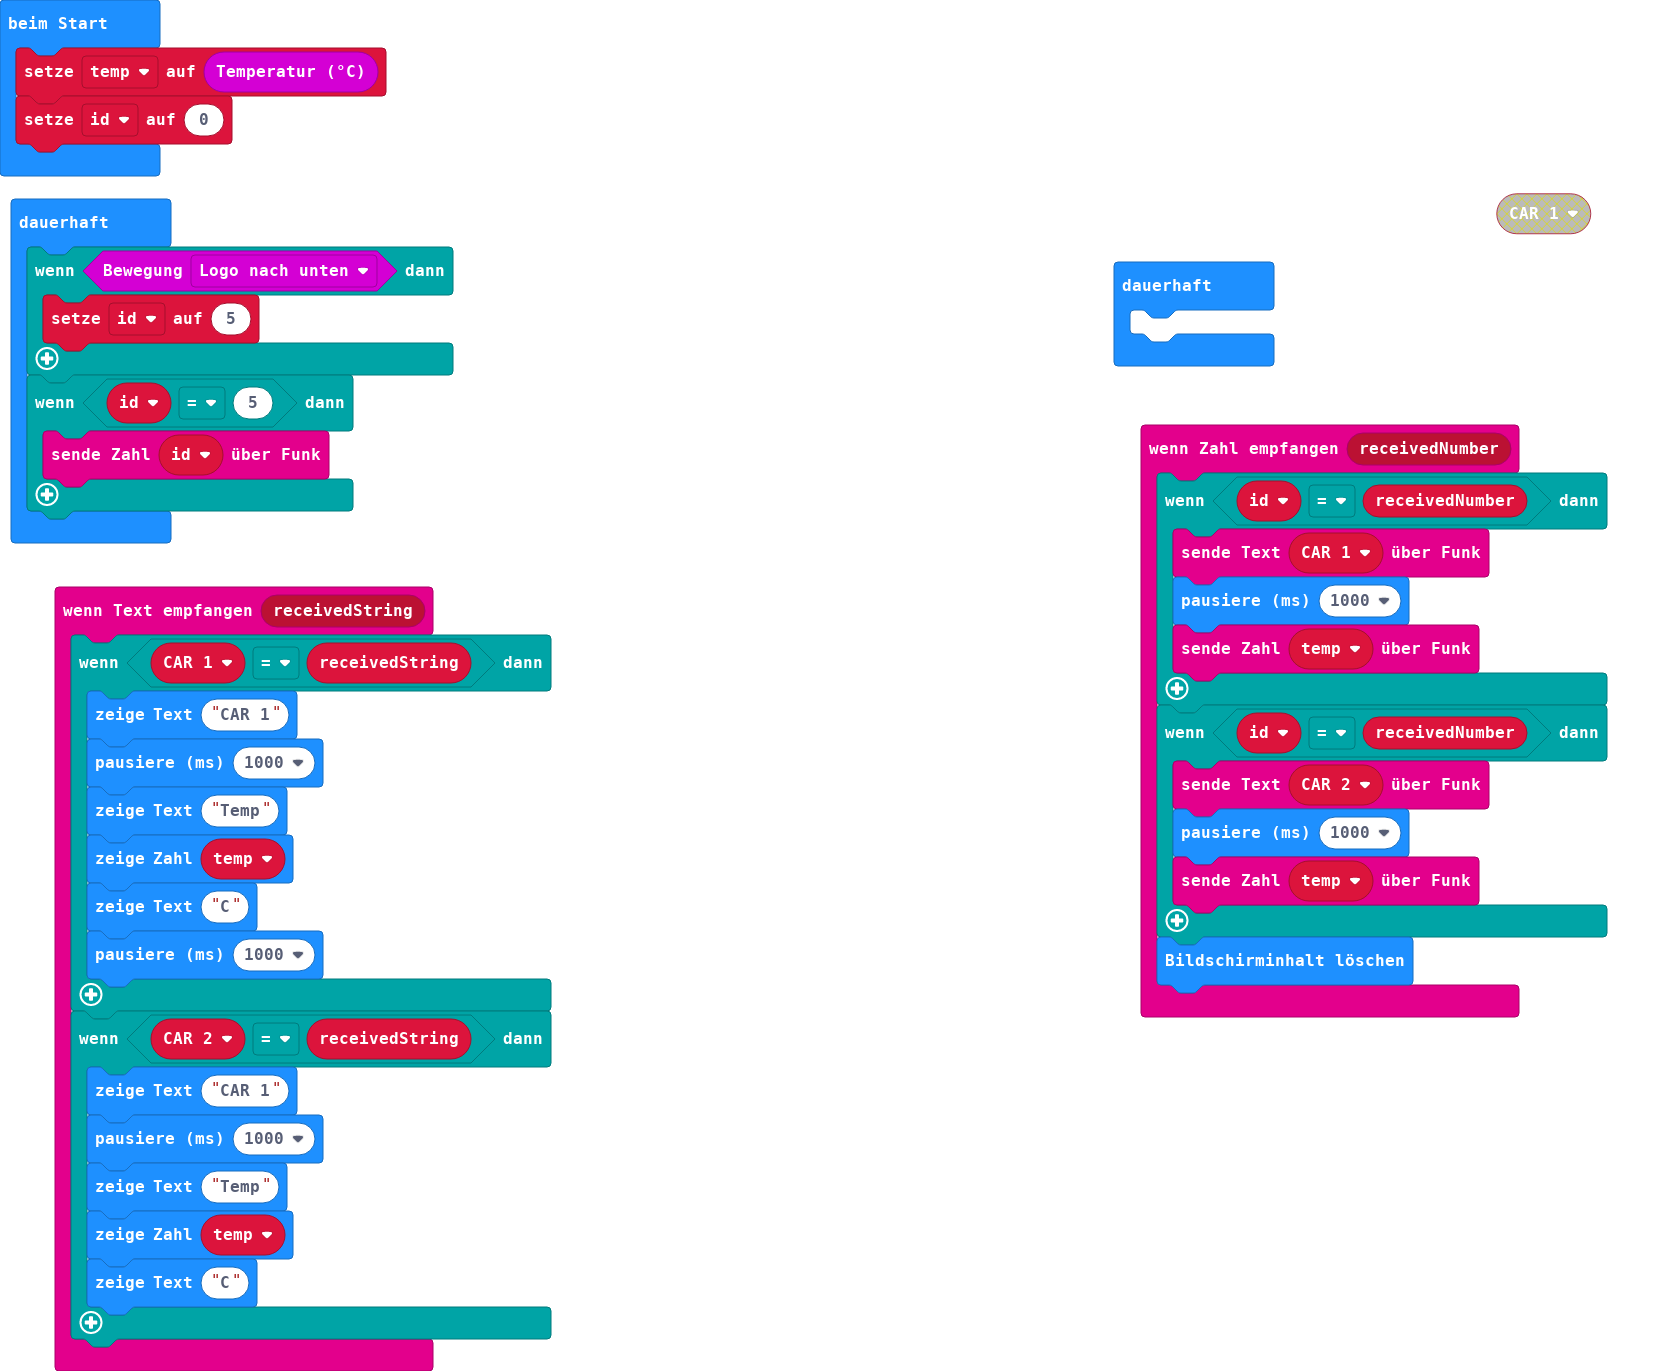
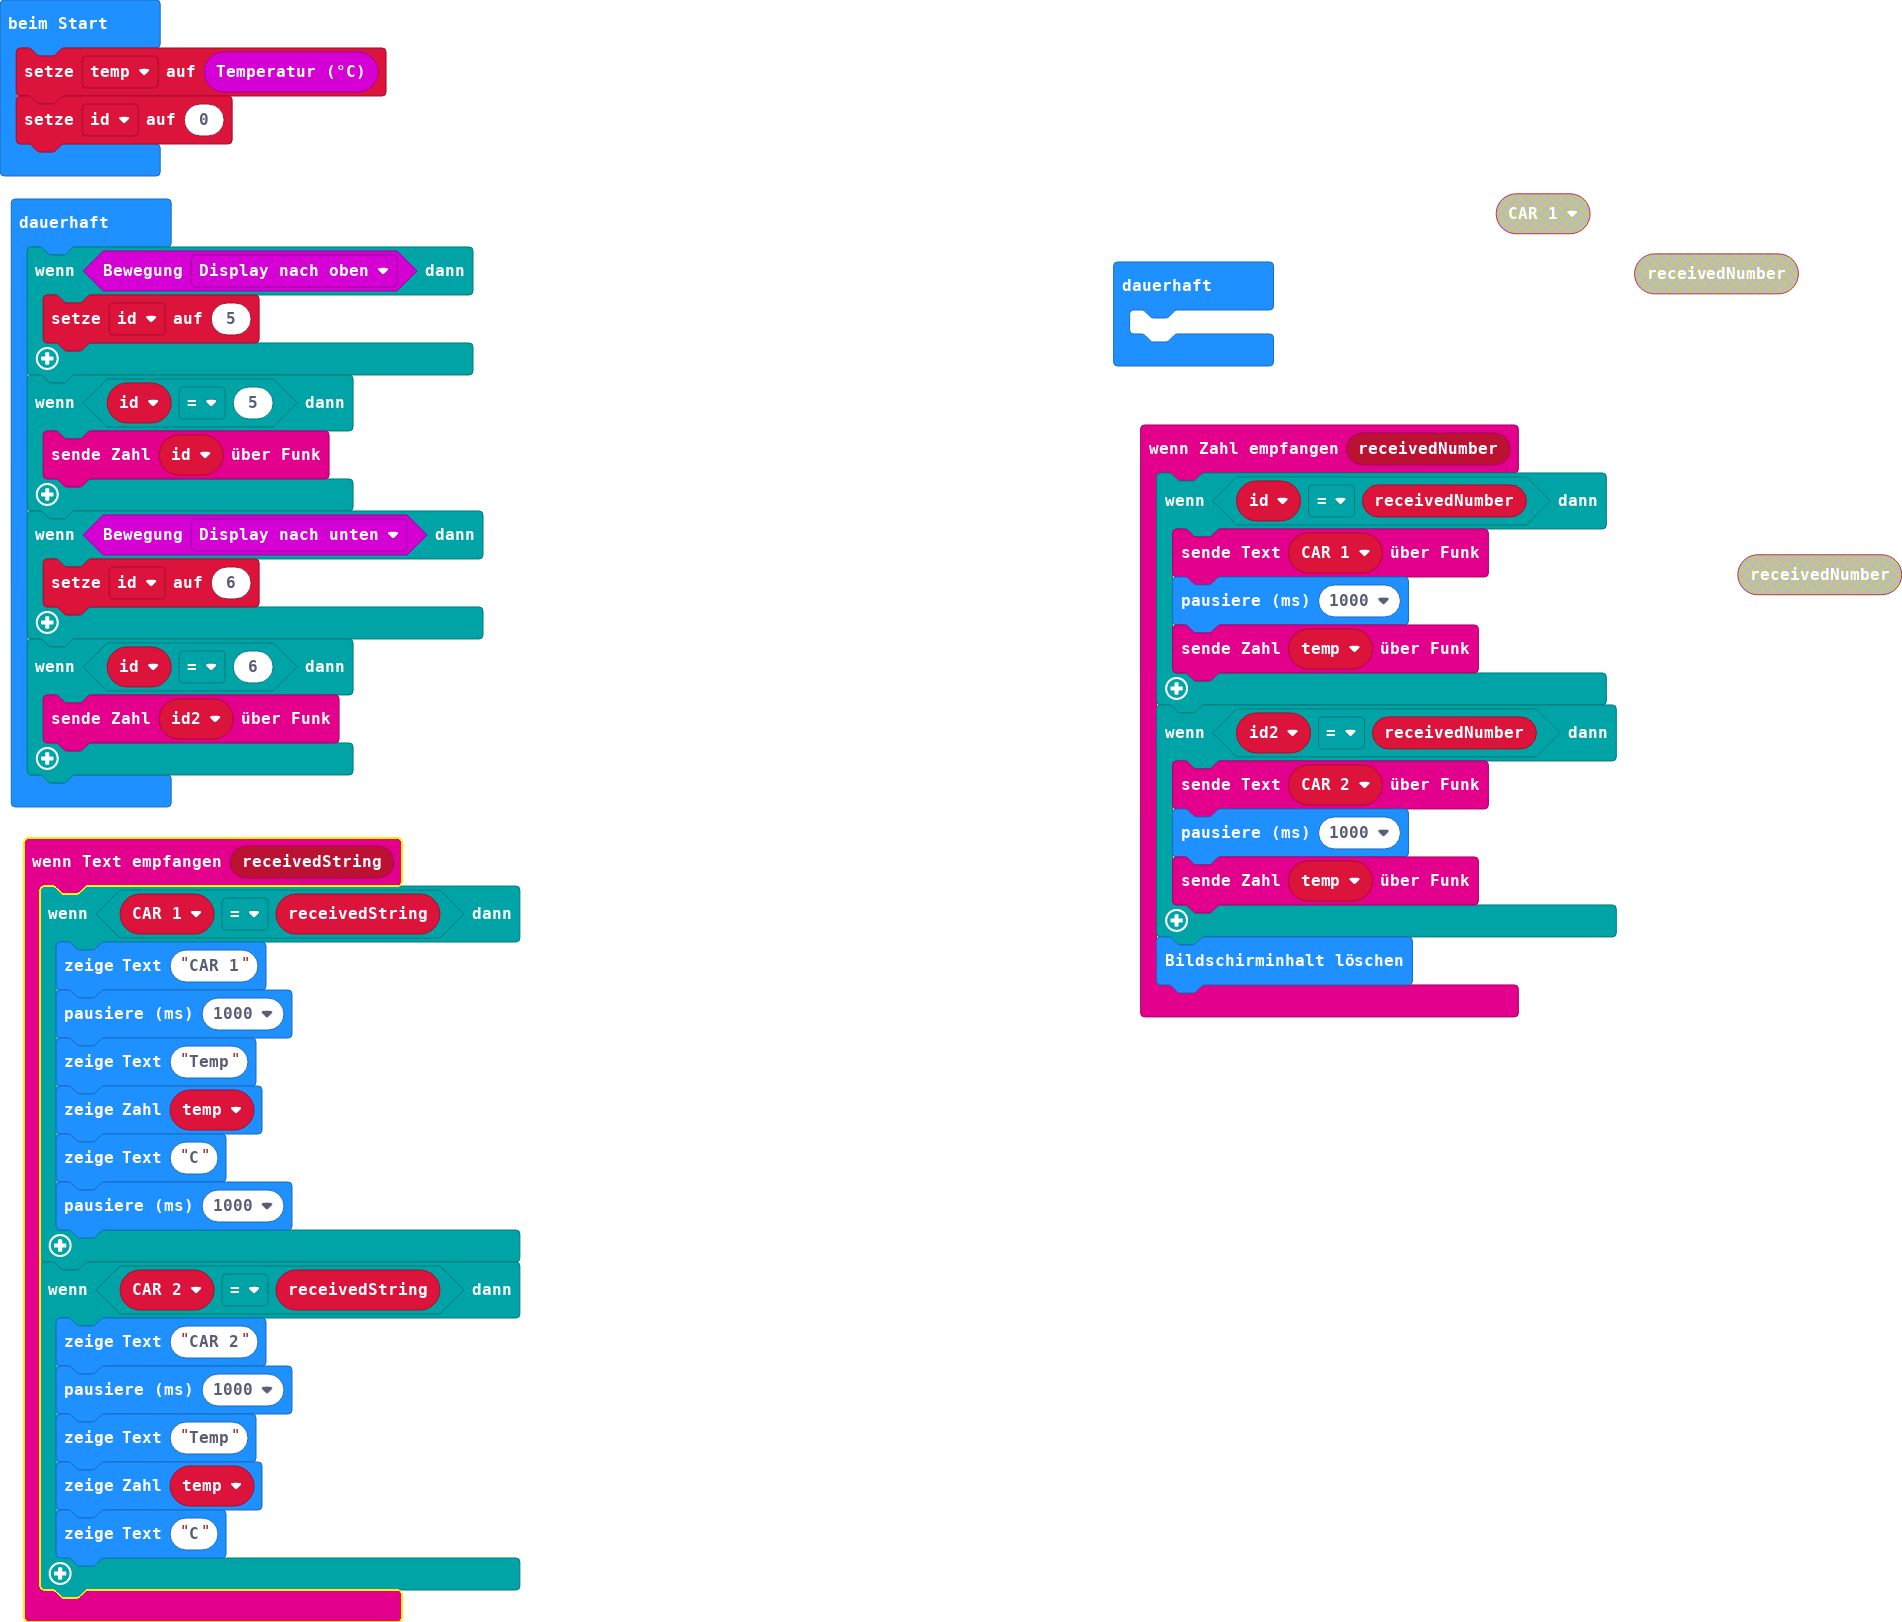
Aktualisiere main.blocks, main.ts

diff --git a/main.ts b/main.ts
@@ -4,7 +4,7 @@ radio.onReceivedNumber(function (receivedNumber) {
         basic.pause(1000)
         radio.sendNumber(temp)
     }
-    if (id == receivedNumber) {
+    if (id2 == receivedNumber) {
         radio.sendString(CAR_2)
         basic.pause(1000)
         radio.sendNumber(temp)
@@ -21,7 +21,7 @@ radio.onReceivedString(function (receivedString) {
         basic.pause(1000)
     }
     if (CAR_2 == receivedString) {
-        basic.showString("CAR 1")
+        basic.showString("CAR 2")
         basic.pause(1000)
         basic.showString("Temp")
         basic.showNumber(temp)
@@ -29,17 +29,24 @@ radio.onReceivedString(function (receivedString) {
     }
 })
 let CAR_2 = ""
+let id2 = 0
 let CAR_1 = ""
 let id = 0
 let temp = 0
 temp = input.temperature()
 id = 0
 basic.forever(function () {
-    if (input.isGesture(Gesture.LogoDown)) {
+    if (input.isGesture(Gesture.ScreenUp)) {
         id = 5
     }
     if (id == 5) {
         radio.sendNumber(id)
+    }
+    if (input.isGesture(Gesture.ScreenDown)) {
+        id = 6
+    }
+    if (id == 6) {
+        radio.sendNumber(id2)
     }
 })
 basic.forever(function () {
